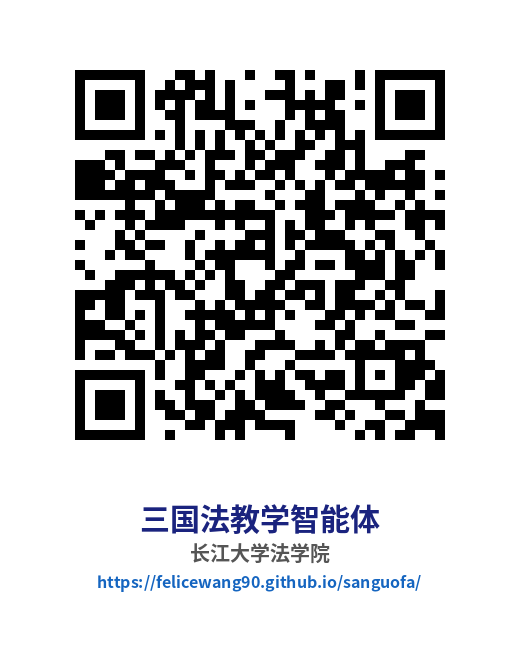
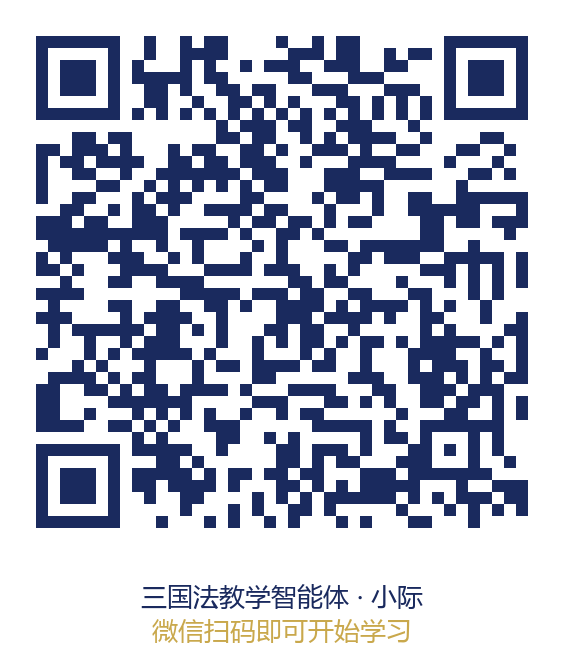
feat: 新增国内入口与配套二维码
- 国内镜像：https://sanguofa-legal-tutor.app.workbuddy.host（实测首页加载 1.06 秒）
- 重制 qrcode.png 指向国内入口，原 GitHub 二维码已归档
- GitHub Pages 保留为代码托管与海外入口

diff --git a/维护与优化规划.md b/维护与优化规划.md
@@ -67,7 +67,7 @@
 |---|---|---|
 | 1 | 清理无用素材与遗留文件 | ✅ **已完成（10月14日）**：工作区 32MB → 7MB，13 个零引用素材与 9 个遗留文件移出仓库，素材本地归档未丢失 |
 | 2 | 首屏瘦身：CSS/JS 外置并延迟加载，知识库改为按需加载 | 首屏体积 1MB → 300KB 以内 |
-| 3 | 国内镜像部署（静态托管 / 国内 CDN），重制二维码 | 学生稳定打开，不再受 GitHub 访问波动影响 |
+| 3 | 国内镜像部署（静态托管 / 国内 CDN），重制二维码 | ✅ **已完成（10月14日）**：国内入口 https://sanguofa-legal-tutor.app.workbuddy.host 上线（实测加载 1.06 秒），二维码已重制指向新地址，GitHub Pages 保留为海外入口 |
 | 4 | 豆包调用改走服务端代理 | 学生无需配 Key，Key 不外泄 |
 
 ### P1 · 正式开课前的数据底座
